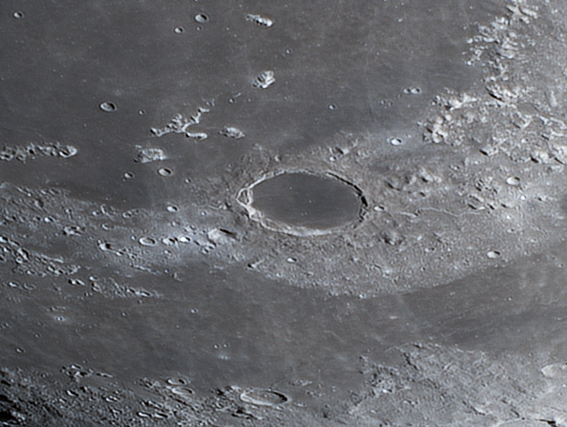
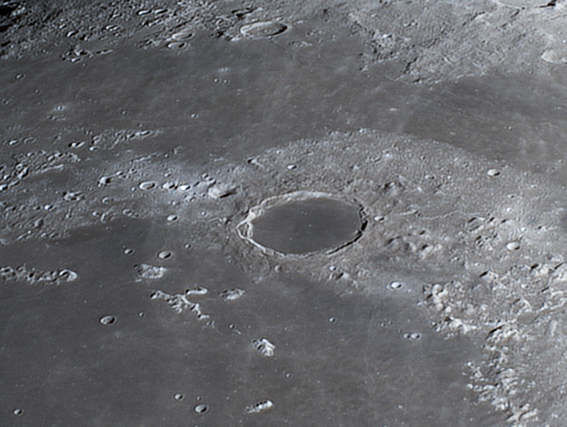
Some images replaced with better ones; moon pic pages have more descriptive titles

diff --git a/content/recent/astro/04/index.md b/content/recent/astro/04/index.md
@@ -1,5 +1,5 @@
 +++
-title = "Astrophotography"
+title = "Waxing Crescent 34% (2022 04-07)"
 weight = 4
 [extra]
 image_name = "04.jpg"

diff --git a/content/recent/astro/03/index.md b/content/recent/astro/03/index.md
@@ -1,5 +1,5 @@
 +++
-title = "Astrophotography"
+title = "Waning Gibbous 57% (2022 08-18)"
 weight = 3
 [extra]
 image_name = "03.jpg"

diff --git a/content/recent/astro/01/index.md b/content/recent/astro/01/index.md
@@ -1,5 +1,5 @@
 +++
-title = "Astrophotography"
+title = "Plato Crater 86% (2024 02-20) "
 weight = 1
 [extra]
 image_name = "01.jpg"

diff --git a/content/recent/astro/02/index.md b/content/recent/astro/02/index.md
@@ -1,5 +1,5 @@
 +++
-title = "Astrophotography"
+title = "First Quarter 46% (2023 07-25)"
 weight = 2
 [extra]
 image_name = "02.jpg"
